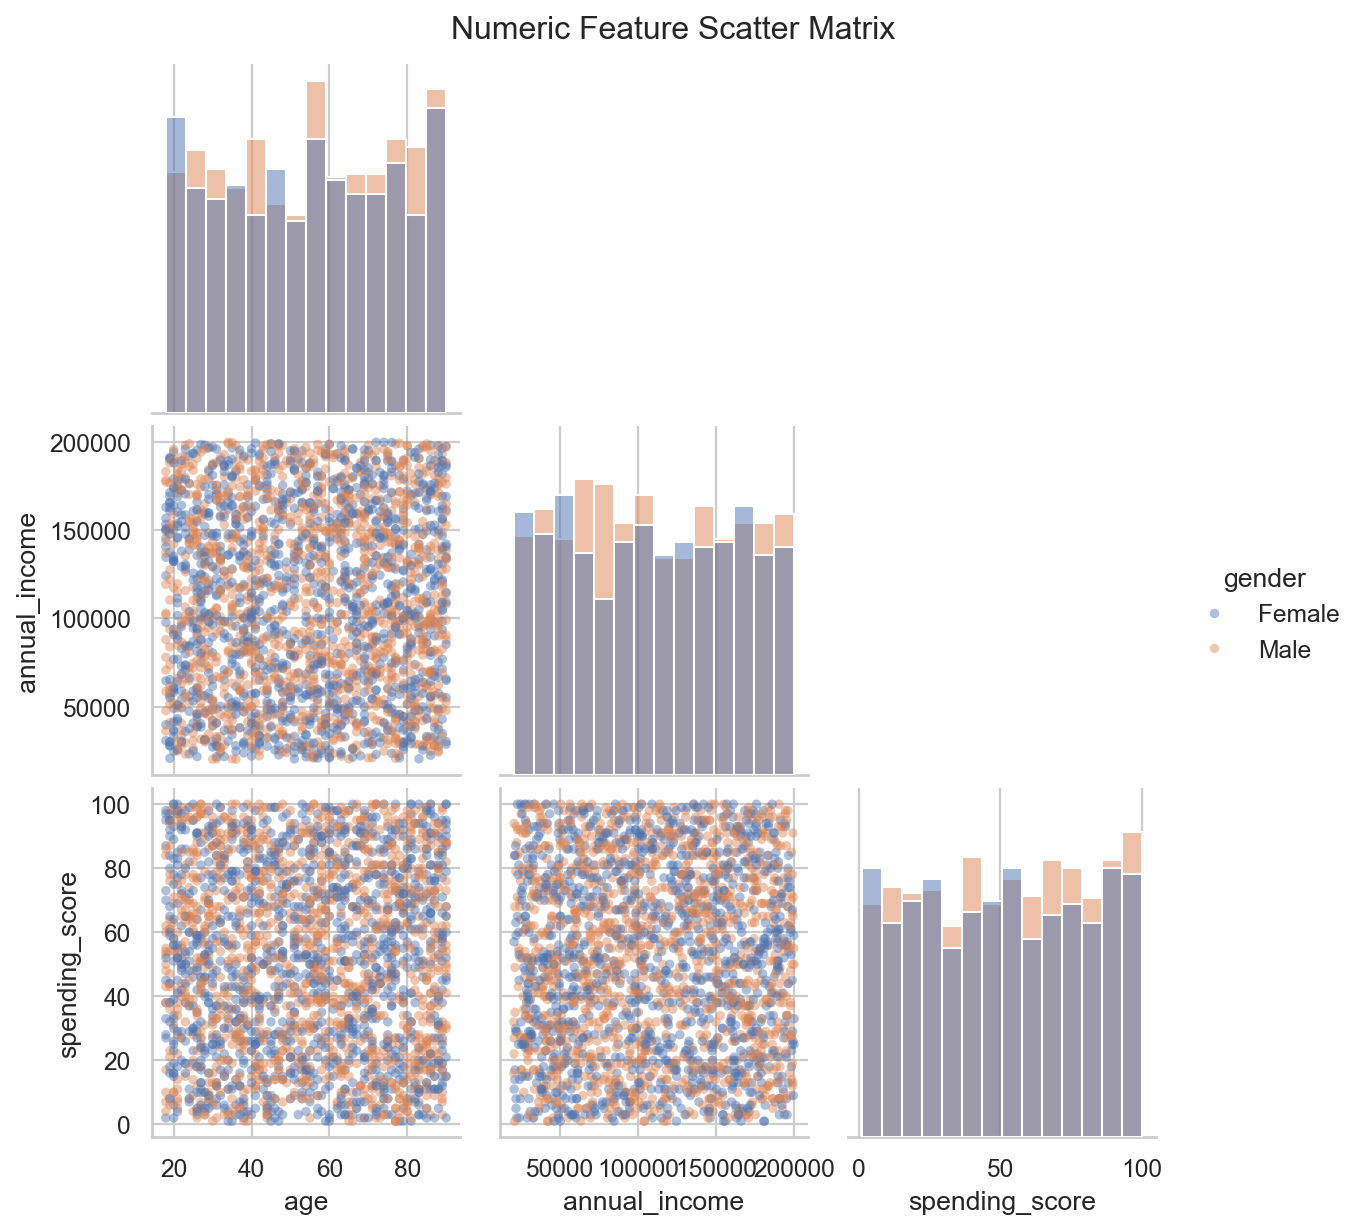
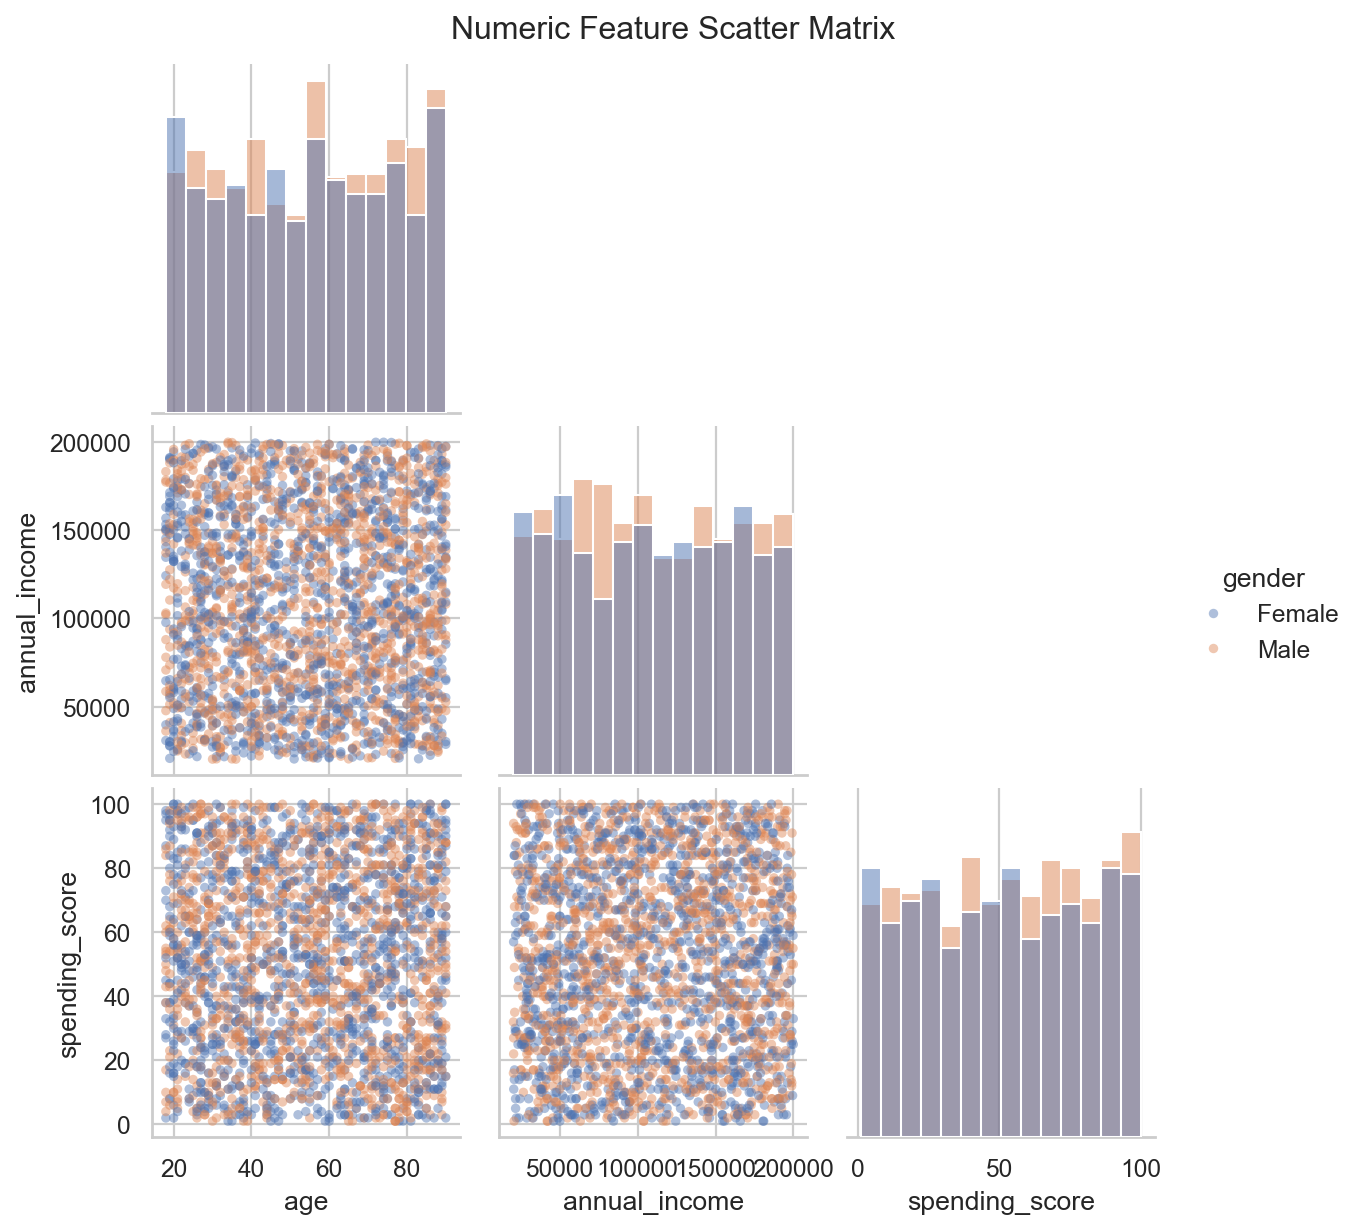
Update dataset links and improve model initialization in KMeans and GaussianMixtureModel

diff --git a/src/model_from_scratch.py b/src/model_from_scratch.py
@@ -1,9 +1,19 @@
 import numpy as np
 import warnings
+from typing import Literal
+
+def _check_random_state(seed):
+    if seed is None or isinstance(seed, (int, np.integer)):
+        return np.random.default_rng(seed)
+    if isinstance(seed, np.random.Generator):
+        return seed
+    if isinstance(seed, np.random.RandomState):
+        return np.random.default_rng(seed.randint(0, np.iinfo(np.int32).max))
+    return np.random.default_rng(seed)
 
 class KMeans:
     """K-Means clustering from scratch."""
-    def __init__(self, n_clusters=8, init='random', max_iter=300, tol=1e-4, random_state=None, n_init=10):
+    def __init__(self, n_clusters=8, init: Literal['random', 'k-means++'] = 'random', max_iter=300, tol=1e-4, random_state=None, n_init=10):
         self.n_clusters = n_clusters
         self.init = init
         self.max_iter = max_iter
@@ -27,12 +37,24 @@ class KMeans:
         best_centers = None
         best_labels = None
         
-        rng = np.random.default_rng(self.random_state)
+        rng = _check_random_state(self.random_state)
         
         for _ in range(self.n_init):
-            if self.init == 'random':
-                indices = rng.choice(n_samples, self.n_clusters, replace=False)
-                centers = X[indices].copy()
+            if self.init == 'k-means++':
+                centers = np.zeros((self.n_clusters, n_features))
+                first_idx = rng.choice(n_samples)
+                centers[0] = X[first_idx]
+                
+                for c_idx in range(1, self.n_clusters):
+                    distances = np.linalg.norm(X[:, np.newaxis, :] - centers[np.newaxis, :c_idx, :], axis=2)
+                    min_dist_sq = np.min(distances, axis=1) ** 2
+                    sum_dist_sq = np.sum(min_dist_sq)
+                    if sum_dist_sq == 0:
+                        probs = np.ones(n_samples) / n_samples
+                    else:
+                        probs = min_dist_sq / sum_dist_sq
+                    next_idx = rng.choice(n_samples, p=probs)
+                    centers[c_idx] = X[next_idx]
             else:
                 indices = rng.choice(n_samples, self.n_clusters, replace=False)
                 centers = X[indices].copy()
@@ -80,6 +102,8 @@ class KMeans:
         return self.labels_
 
     def predict(self, X):
+        if self.cluster_centers_ is None:
+            raise ValueError("KMeans instance is not fitted yet.")
         X = np.asarray(X, dtype=float)
         distances = np.linalg.norm(X[:, np.newaxis, :] - self.cluster_centers_[np.newaxis, :, :], axis=2)
         return np.argmin(distances, axis=1)
@@ -87,12 +111,13 @@ class KMeans:
 
 class GaussianMixtureModel:
     """Gaussian Mixture Model clustering from scratch using EM algorithm."""
-    def __init__(self, n_components=4, max_iter=100, tol=1e-4, random_state=None, reg_covar=1e-6):
+    def __init__(self, n_components=4, max_iter=100, tol=1e-4, random_state=None, reg_covar=1e-6, init_params: Literal['kmeans', 'random'] = 'kmeans'):
         self.n_components = n_components
         self.max_iter = max_iter
         self.tol = tol
         self.random_state = random_state
         self.reg_covar = reg_covar
+        self.init_params = init_params
         
         self.weights_ = None
         self.means_ = None
@@ -106,28 +131,69 @@ class GaussianMixtureModel:
             inv_cov = np.linalg.inv(cov_reg)
             det_cov = np.linalg.det(cov_reg)
         except np.linalg.LinAlgError:
-            cov_reg += np.eye(n_features) * 1e-4
-            inv_cov = np.linalg.inv(cov_reg)
-            det_cov = np.linalg.det(cov_reg)
-            
-        if det_cov <= 0:
+            try:
+                cov_reg_fallback = cov_reg + np.eye(n_features) * 1e-4
+                inv_cov = np.linalg.inv(cov_reg_fallback)
+                det_cov = np.linalg.det(cov_reg_fallback)
+            except np.linalg.LinAlgError:
+                inv_cov = np.eye(n_features)
+                det_cov = 1e-30
+                
+        if np.isnan(det_cov) or np.isinf(det_cov) or det_cov <= 1e-30:
             det_cov = 1e-30
+            
+        if not np.isfinite(inv_cov).all():
+            inv_cov = np.eye(n_features)
             
         norm_const = 1.0 / np.sqrt(((2 * np.pi) ** n_features) * det_cov)
         diff = X - mean
         exponent = -0.5 * np.sum(diff @ inv_cov * diff, axis=1)
+        exponent = np.clip(exponent, -700, 700)
         return norm_const * np.exp(exponent)
 
     def fit(self, X):
         X = np.asarray(X, dtype=float)
         n_samples, n_features = X.shape
         
-        rng = np.random.default_rng(self.random_state)
-        indices = rng.choice(n_samples, self.n_components, replace=False)
-        self.means_ = X[indices].copy()
-        self.covariances_ = np.array([np.eye(n_features) for _ in range(self.n_components)])
-        self.weights_ = np.ones(self.n_components) / self.n_components
+        if n_samples < self.n_components:
+            raise ValueError(f"n_samples={n_samples} must be >= n_components={self.n_components}")
+            
+        rng = _check_random_state(self.random_state)
         
+        if self.init_params == 'kmeans':
+            try:
+                kmeans = KMeans(n_clusters=self.n_components, random_state=self.random_state, n_init=1, init='k-means++')
+                kmeans.fit(X)
+                if kmeans.cluster_centers_ is None:
+                    raise ValueError("KMeans failed to fit centers.")
+                self.means_ = kmeans.cluster_centers_.copy()
+                labels = kmeans.labels_
+                
+                self.weights_ = np.zeros(self.n_components)
+                self.covariances_ = np.zeros((self.n_components, n_features, n_features))
+                for k in range(self.n_components):
+                    members = X[labels == k]
+                    if len(members) > 0:
+                        self.weights_[k] = len(members) / n_samples
+                        diff = members - self.means_[k]
+                        self.covariances_[k] = (diff.T @ diff) / len(members)
+                    else:
+                        self.weights_[k] = 1.0 / self.n_components
+                        self.covariances_[k] = np.eye(n_features)
+                
+                self.weights_ /= np.sum(self.weights_)
+            except Exception:
+                self.init_params = 'random'
+                
+        if self.init_params == 'random':
+            indices = rng.choice(n_samples, self.n_components, replace=False)
+            self.means_ = X[indices].copy()
+            self.covariances_ = np.array([np.eye(n_features) for _ in range(self.n_components)])
+            self.weights_ = np.ones(self.n_components) / self.n_components
+            
+        if self.means_ is None or self.covariances_ is None or self.weights_ is None:
+            raise ValueError("Initialization failed, parameters are None.")
+            
         log_likelihood_old = -np.inf
         
         for iteration in range(self.max_iter):
@@ -141,12 +207,14 @@ class GaussianMixtureModel:
             responsibilities = weighted_pdfs / sum_weighted_pdfs
             
             log_likelihood = float(np.sum(np.log(np.maximum(np.sum(weighted_pdfs, axis=1), 1e-30))))
+            if np.isnan(log_likelihood) or np.isinf(log_likelihood):
+                break
             if np.abs(log_likelihood - log_likelihood_old) < self.tol:
                 break
             log_likelihood_old = log_likelihood
             
             Nk = np.sum(responsibilities, axis=0)
-            Nk_safe = np.where(Nk == 0, 1e-10, Nk)
+            Nk_safe = np.maximum(Nk, 1e-10)
             
             self.weights_ = Nk / n_samples
             
@@ -166,6 +234,8 @@ class GaussianMixtureModel:
         return self.labels_
 
     def predict(self, X):
+        if self.means_ is None or self.covariances_ is None or self.weights_ is None:
+            raise ValueError("GaussianMixtureModel instance is not fitted yet.")
         X = np.asarray(X, dtype=float)
         n_samples = X.shape[0]
         pdfs = np.zeros((n_samples, self.n_components))
@@ -177,7 +247,7 @@ class GaussianMixtureModel:
 # Library wrappers for verification and testing
 class KMeansLibrary:
     """Wrapper around sklearn.cluster.KMeans."""
-    def __init__(self, n_clusters=8, init='random', max_iter=300, tol=1e-4, random_state=None, n_init=10):
+    def __init__(self, n_clusters=8, init: Literal['random', 'k-means++'] = 'random', max_iter=300, tol=1e-4, random_state=None, n_init=10):
         from sklearn.cluster import KMeans as SKKMeans
         self.estimator = SKKMeans(
             n_clusters=n_clusters,

diff --git a/reports/customer_segmentation_report.md b/reports/customer_segmentation_report.md
@@ -2,7 +2,7 @@
 
 ## Dataset
 
-- Raw file: `/home/quangmanh/Documents/lab03-machine-learning/data/raw/Shopping Mall Customer Segmentation Data .csv`
+- Raw file: `/Users/quangmanh/Project/lab03/data/raw/Shopping Mall Customer Segmentation Data .csv`
 - The dataset contains customer ID, gender, age, annual income, and spending score.
 - Customer ID is preserved for traceability but excluded from clustering.
 - Gender is compared through a one-hot encoded experiment rather than ordinal encoding.
@@ -39,10 +39,10 @@ The selected solution balances quantitative quality with interpretability. The f
 | kmeans      | age_spending_only    | robust   | n_clusters=4   |            4 |            0 |     0.406905 | False      |
 | kmeans      | age_spending_only    | standard | n_clusters=4   |            4 |            0 |     0.406904 | False      |
 | kmeans      | behavior_plus_gender | minmax   | n_clusters=3   |            3 |            0 |     0.401314 | False      |
-| gmm         | income_spending_only | standard | n_components=2 |            2 |            0 |     0.353616 | False      |
-| gmm         | income_spending_only | standard | n_components=3 |            3 |            0 |     0.330752 | False      |
-| gmm         | income_spending_only | standard | n_components=4 |            4 |            0 |     0.26605  | False      |
-| gmm         | income_spending_only | standard | n_components=5 |            5 |            0 |     0.254724 | False      |
+| gmm         | income_spending_only | standard | n_components=4 |            4 |            0 |     0.403262 | False      |
+| gmm         | income_spending_only | standard | n_components=2 |            2 |            0 |     0.35471  | False      |
+| gmm         | income_spending_only | standard | n_components=3 |            3 |            0 |     0.340498 | False      |
+| gmm         | income_spending_only | standard | n_components=5 |            5 |            0 |     0.284014 | False      |
 
 ## Limitations
 

diff --git a/agents/description.md b/agents/description.md
@@ -2,6 +2,8 @@ Input: -
 Output: -
 To do: - 
 
+- https://www.kaggle.com/datasets/zubairmustafa/shopping-mall-customer-segmentation-data
+
 *notebook structure*: create and optimize notebook **lab03.ipynb** based on codex.md
 struct of notebook: 
 - cell md: Overview all steps in notebook. Draw a table containing: Step Number, Step Name, Description, Python Modules Used, and Saved Outputs/Metrics.